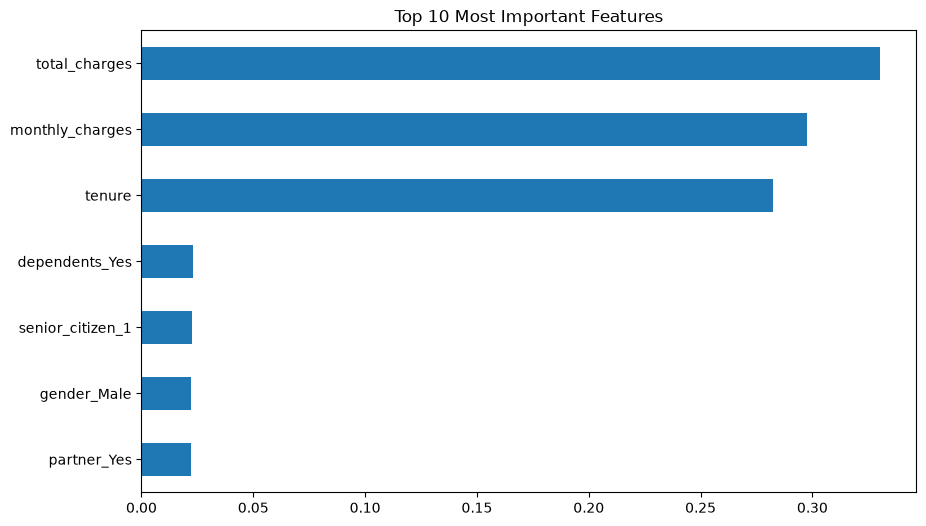
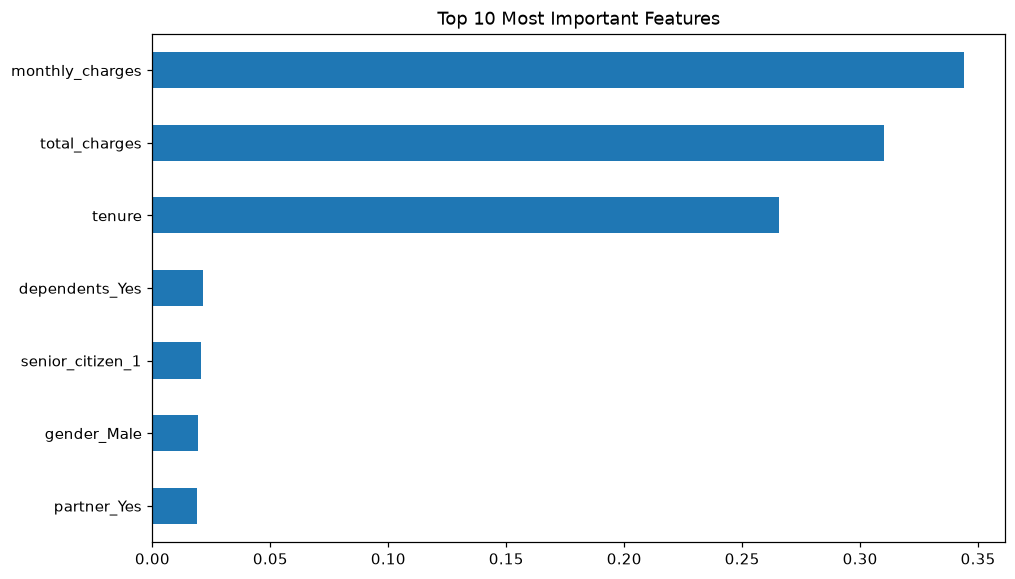
README: fill tenure-bucket churn rates and ROC-AUC from IBM Telco sample
Verified existing README numbers against the dataset. Both notebooks were run
end to end (SQLite replica of the Postgres star schema). Replaces the charts with
the post-fix feature importance and adds ROC and SHAP charts.

diff --git a/README.md b/README.md
@@ -8,7 +8,7 @@
 
 ## Dataset
 
-The project uses the public Telco Customer Churn dataset (7,043 customers, one row each, with a churn flag). The CSV is **not included in this repo**: download it yourself and save it as `csv_files/telco_churn.csv` (the folder is git-ignored).
+The project uses the public Telco Customer Churn dataset (7,043 customers, one row each, with a churn flag). The CSV is **not included in this repo**: download it yourself (for example the public [IBM sample](https://github.com/IBM/telco-customer-churn-on-icp4d/tree/master/data)) and save it as `csv_files/telco_churn.csv` (the folder is git-ignored). The numbers below were checked against that IBM sample (7,043 rows).
 
 ## Pipeline
 
@@ -26,7 +26,13 @@ From the EDA notebook:
 - **Senior citizens churn far more:** 41.7% vs. 23.6% for non-seniors.
 - **Customers without a partner churn more:** 33.0% vs. 19.7% with a partner.
 - **Customers without dependents churn more:** 31.3% vs. 15.5% with dependents.
-- **Churn by tenure bucket:** [ADD: run the CTE query in `sql_queries/analysis.sql` against the loaded data and paste the churn rate for each bucket (0 to 6 months, 6 to 24 months, 2+ years).]
+- **Churn falls sharply with tenure:** 54.3% of customers in their first 6 months churned, versus 32.3% at 6 to 24 months and 14.3% at 2+ years (from the CTE query in `sql_queries/analysis.sql`).
+
+| Tenure bucket | Customers | Churned | Churn rate |
+|---|---|---|---|
+| 0 to 6 months | 1,371 | 744 | 54.27% |
+| 6 to 24 months | 1,745 | 564 | 32.32% |
+| 2+ years | 3,927 | 561 | 14.29% |
 
 ![Tenure distribution by churn status](docs/tenure_distribution_by_churn.png)
 
@@ -34,16 +40,22 @@ From the EDA notebook:
 
 A random forest (100 trees, `class_weight='balanced'`) on an 80/20 split (1,409 test customers, `random_state=42`):
 
-| Model | Features | Accuracy | Churn precision | Churn recall | Churn F1 |
-|---|---|---|---|---|---|
-| Random forest | 7 | 0.75 | 0.53 | 0.61 | 0.57 |
-| Random forest (pruned) | 3 (`total_charges`, `monthly_charges`, `tenure`) | 0.74 | 0.51 | 0.62 | 0.56 |
+| Model | Features | Accuracy | Churn precision | Churn recall | Churn F1 | ROC-AUC |
+|---|---|---|---|---|---|---|
+| Random forest | 7 | 0.75 | 0.52 | 0.58 | 0.55 | 0.792 |
+| Random forest (pruned) | 3 (`total_charges`, `monthly_charges`, `tenure`) | 0.75 | 0.53 | 0.60 | 0.56 | 0.791 |
 
-- Grid search on the pruned model (5-fold CV, scored on F1) picked `max_depth=10`, `min_samples_split=10`, `n_estimators=50`, with a best CV F1 of 0.587.
-- In the full model, `total_charges` (0.33), `monthly_charges` (0.30) and `tenure` (0.28) carry almost all of the importance; the four demographic dummies are about 0.02 each.
-- **ROC-AUC:** [TODO: re-run `notebooks/02_model_training.ipynb` with the dataset and record the ROC-AUC printed by the new ROC cell.]
+- The pruned model performs the same as the full model, so the four demographic columns add almost nothing to the prediction.
+- Grid search on the pruned model (5-fold CV, scored on F1) picked `max_depth=10`, `min_samples_split=2`, `n_estimators=50`, with a best CV F1 of 0.595.
+- In the full model, `monthly_charges` (0.34), `total_charges` (0.31) and `tenure` (0.27) carry almost all of the importance; the four demographic dummies are about 0.02 each.
 
-> **Note:** the numbers above are from the original notebook run, before two fixes: the notebook cast every column to integers, which truncated the decimals in `monthly_charges` and `total_charges`, and the SHAP cell paired the 7-feature model with 3-feature data. Both are fixed in the code, but the metrics need to be re-run with the dataset and updated here.
+![ROC curves for the full and pruned models](docs/roc_curve.png)
+
+The SHAP summary for the full model shows the direction of each feature's effect: short tenure and high monthly charges push predictions toward churn, while having dependents pushes them away.
+
+![SHAP summary plot for the full model](docs/shap_summary.png)
+
+> **How these were produced:** both notebooks were run end to end on the IBM sample. PostgreSQL was not available, so the load and star-schema steps were replicated in pandas and SQLite using the same logic as `scripts/load_data.py` and `sql_queries/transform_data.sql`, and the CTE query was run on that copy. Row order in the SQLite copy can differ from a Postgres load, which changes the train/test split, so exact model figures may differ slightly from a Postgres run.
 
 ## Limitations
 
@@ -52,6 +64,7 @@ A random forest (100 trees, `class_weight='balanced'`) on an 80/20 split (1,409 
 - Feature importance shows what the model relies on, not what causes churn.
 - Results come from a single train/test split; there is no cross-validated estimate for the final model.
 - Churn precision is about 0.5, so roughly half of the customers flagged would not actually have churned.
+- ROC-AUC is about 0.79: the model ranks churners above non-churners reasonably well, but it is not a strong classifier.
 
 ## Run it
 
